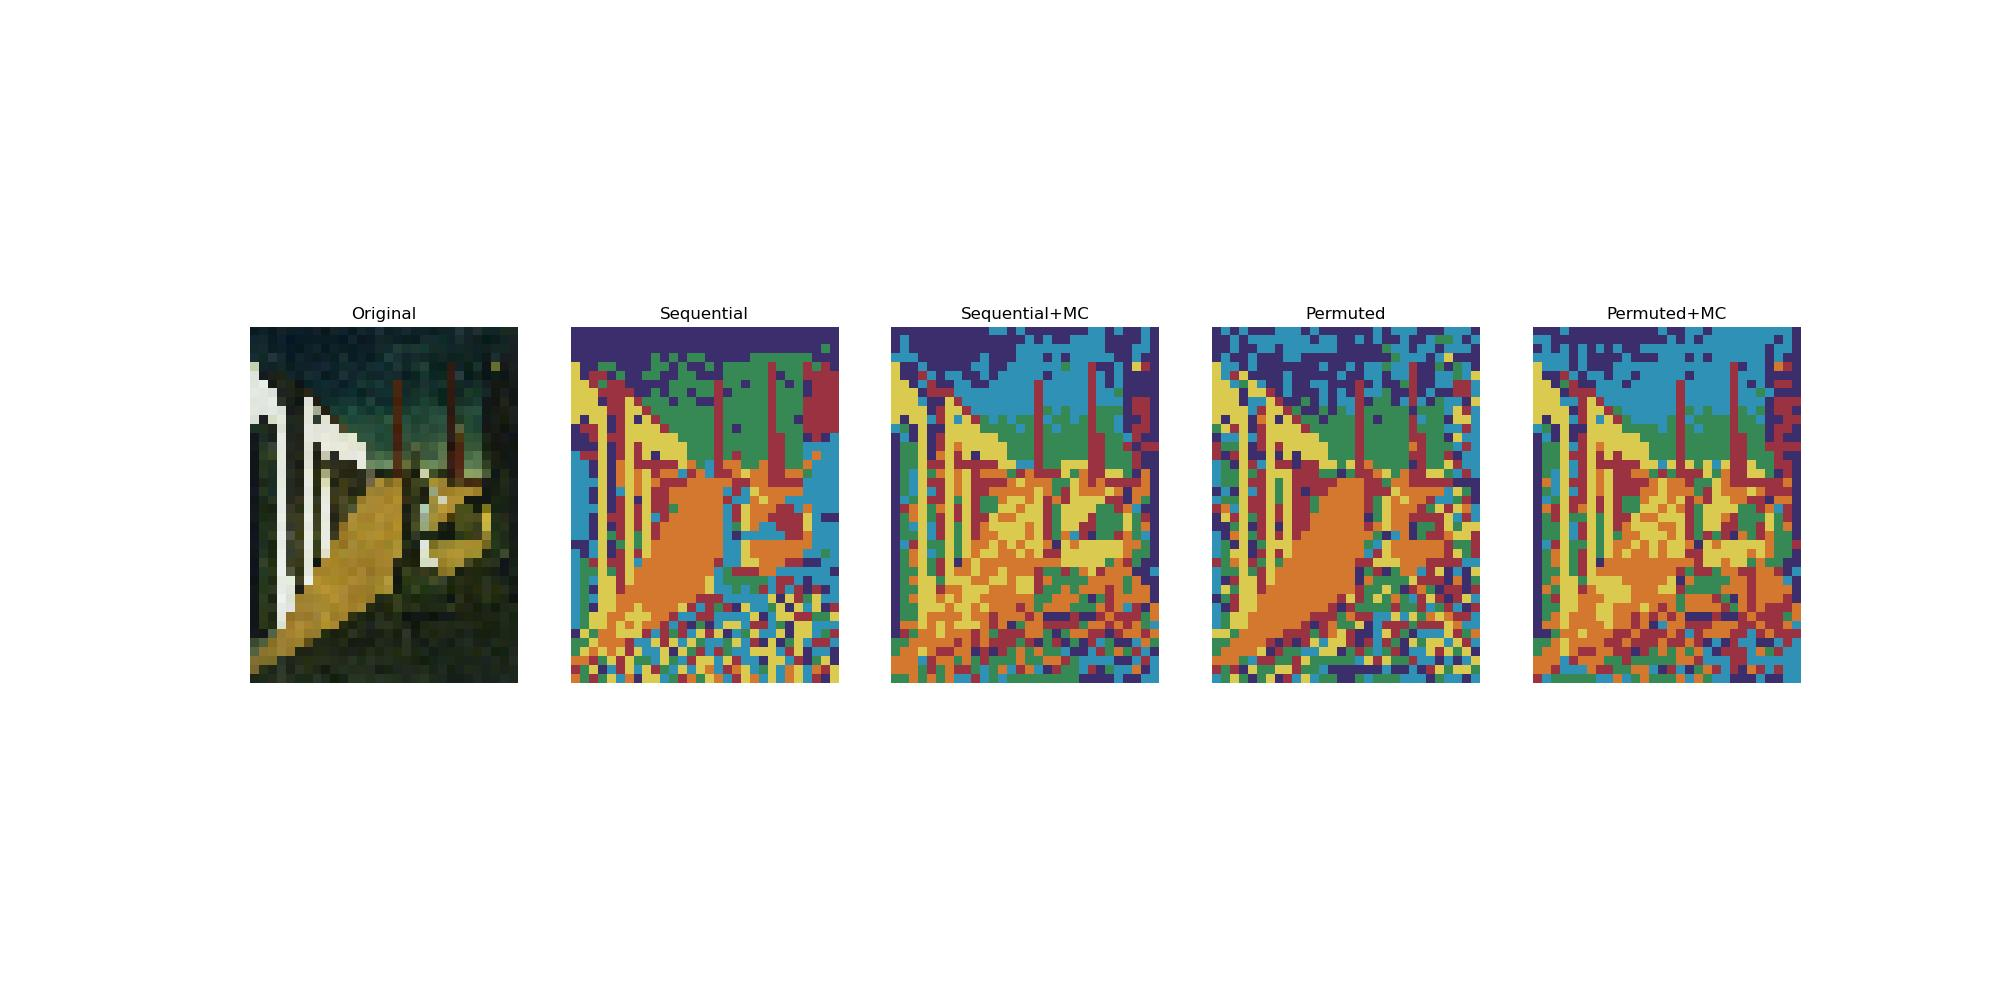
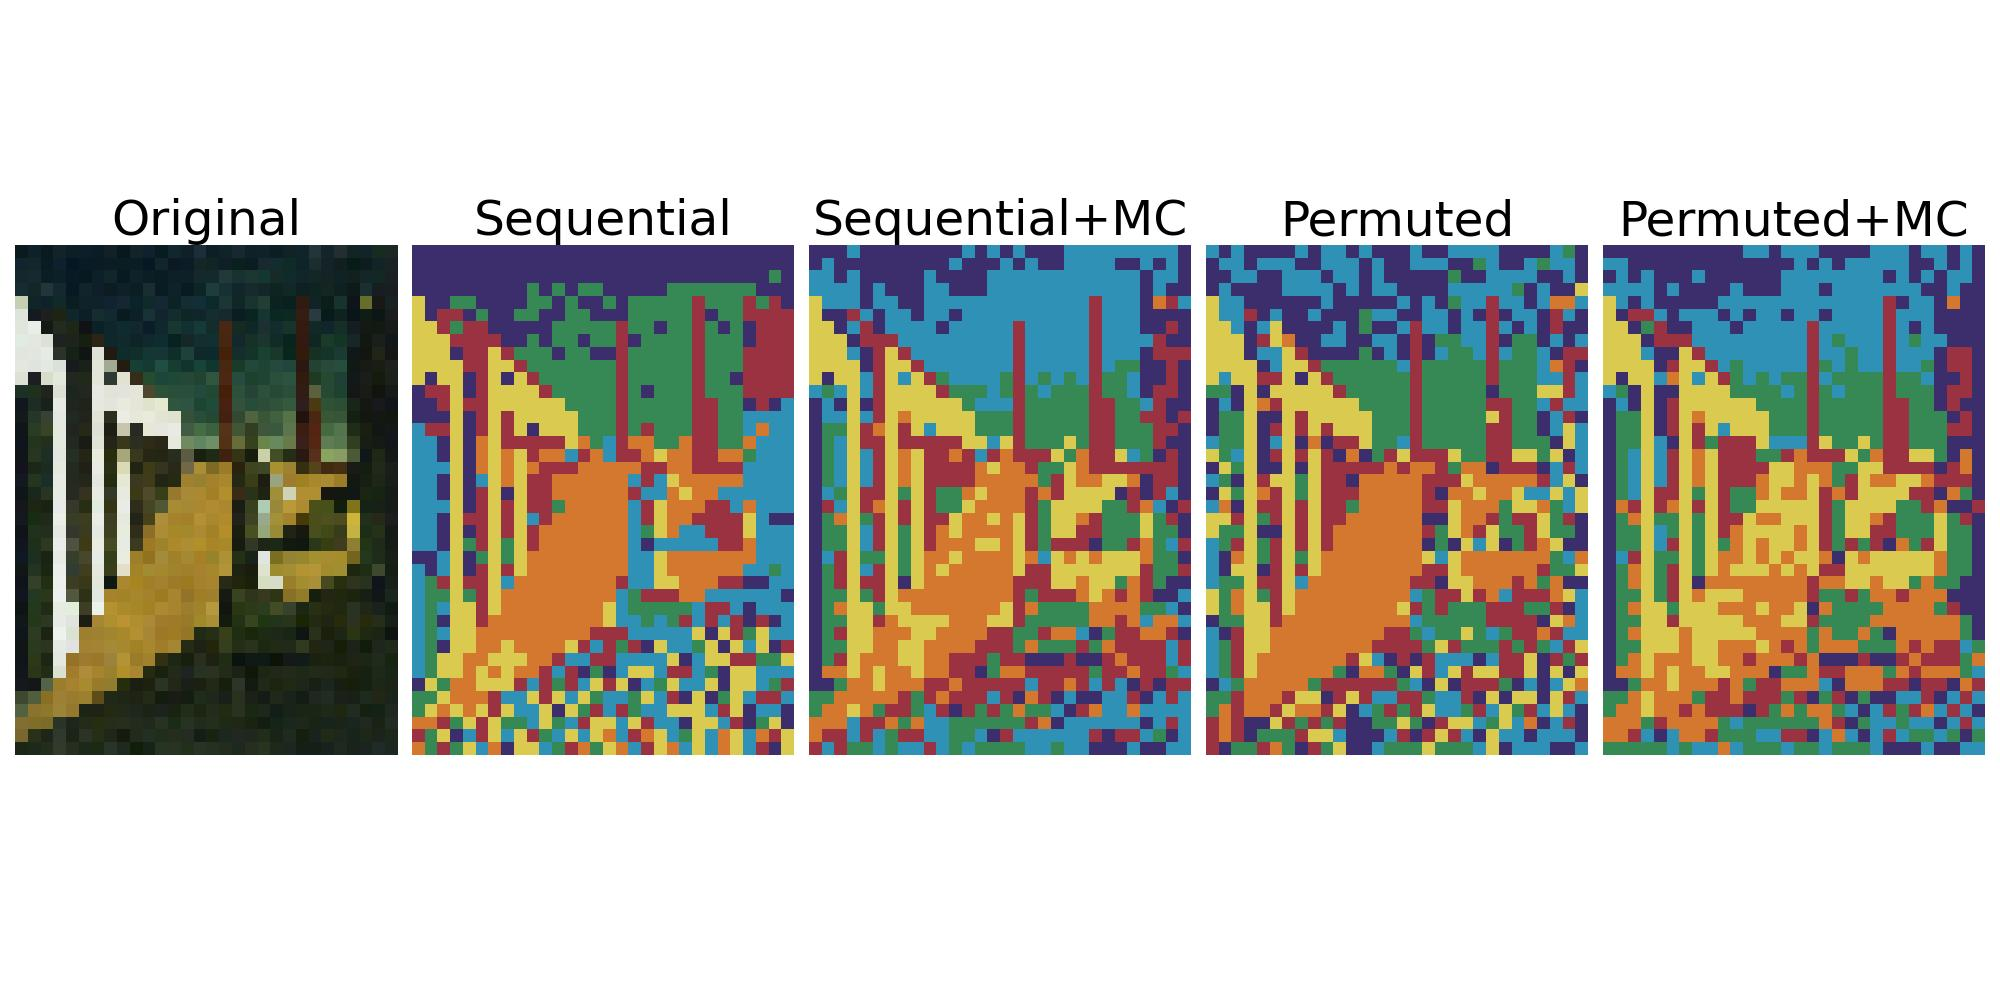
Image fontsize and layout change. Added the remote figure

diff --git a/CubePainting/.ipynb_checkpoints/cube_image_transform-checkpoint.py b/CubePainting/.ipynb_checkpoints/cube_image_transform-checkpoint.py
@@ -120,14 +120,21 @@ def load_my_palette():
     
     return scrc
 
-def load_my_palette2():
+def load_my_palette2(equal=False):
     # Loads the palette 2 in pickled files
     # specified by names given in the code
     
-    with open("colors2.pickle", "rb") as handle:
-        my_colors = pickle.load(handle)
-    with open("colors_rgb2.pickle", "rb") as handle:
-        my_colors_rgb = pickle.load(handle)
+    if equal:
+        with open("colors2eq.pickle", "rb") as handle:
+            my_colors = pickle.load(handle)
+        with open("colors_rgb2eq.pickle", "rb") as handle:
+            my_colors_rgb = pickle.load(handle)   
+    elif not equal:
+        with open("colors2.pickle", "rb") as handle:
+            my_colors = pickle.load(handle)
+        with open("colors_rgb2.pickle", "rb") as handle:
+            my_colors_rgb = pickle.load(handle)
+    
     
     scrc = create_scarce_palette(my_colors_rgb, my_colors)
     
@@ -383,24 +390,26 @@ def display_all(image_original, scarce_palette, imagesize=(40, 30), m=1,
     fig, axs = plt.subplots(1, 5, figsize=(20, 10))
 
     axs[0].imshow(image)
-    axs[0].set_title("Original")
+    axs[0].set_title("Original", fontsize=35)
     axs[0].axis("off")
 
     axs[1].imshow(image_scarce)
-    axs[1].set_title("Sequential")
+    axs[1].set_title("Sequential", fontsize=35)
     axs[1].axis("off")
     
     axs[2].imshow(image_scarce_mc)
-    axs[2].set_title("Sequential+MC")
+    axs[2].set_title("Sequential+MC", fontsize=35)
     axs[2].axis("off")
     
     axs[3].imshow(image_scarce_permute)
-    axs[3].set_title("Permuted")
+    axs[3].set_title("Permuted", fontsize=35)
     axs[3].axis("off")
 
     axs[4].imshow(image_scarce_permute_mc)
-    axs[4].set_title("Permuted+MC")
+    axs[4].set_title("Permuted+MC", fontsize=35)
     axs[4].axis("off")
+
+    plt.tight_layout()
 
     plt.axis("off")
     if save==True:

diff --git a/CubePainting/cube_image_transform.py b/CubePainting/cube_image_transform.py
@@ -390,24 +390,26 @@ def display_all(image_original, scarce_palette, imagesize=(40, 30), m=1,
     fig, axs = plt.subplots(1, 5, figsize=(20, 10))
 
     axs[0].imshow(image)
-    axs[0].set_title("Original")
+    axs[0].set_title("Original", fontsize=35)
     axs[0].axis("off")
 
     axs[1].imshow(image_scarce)
-    axs[1].set_title("Sequential")
+    axs[1].set_title("Sequential", fontsize=35)
     axs[1].axis("off")
     
     axs[2].imshow(image_scarce_mc)
-    axs[2].set_title("Sequential+MC")
+    axs[2].set_title("Sequential+MC", fontsize=35)
     axs[2].axis("off")
     
     axs[3].imshow(image_scarce_permute)
-    axs[3].set_title("Permuted")
+    axs[3].set_title("Permuted", fontsize=35)
     axs[3].axis("off")
 
     axs[4].imshow(image_scarce_permute_mc)
-    axs[4].set_title("Permuted+MC")
+    axs[4].set_title("Permuted+MC", fontsize=35)
     axs[4].axis("off")
+
+    plt.tight_layout()
 
     plt.axis("off")
     if save==True:
